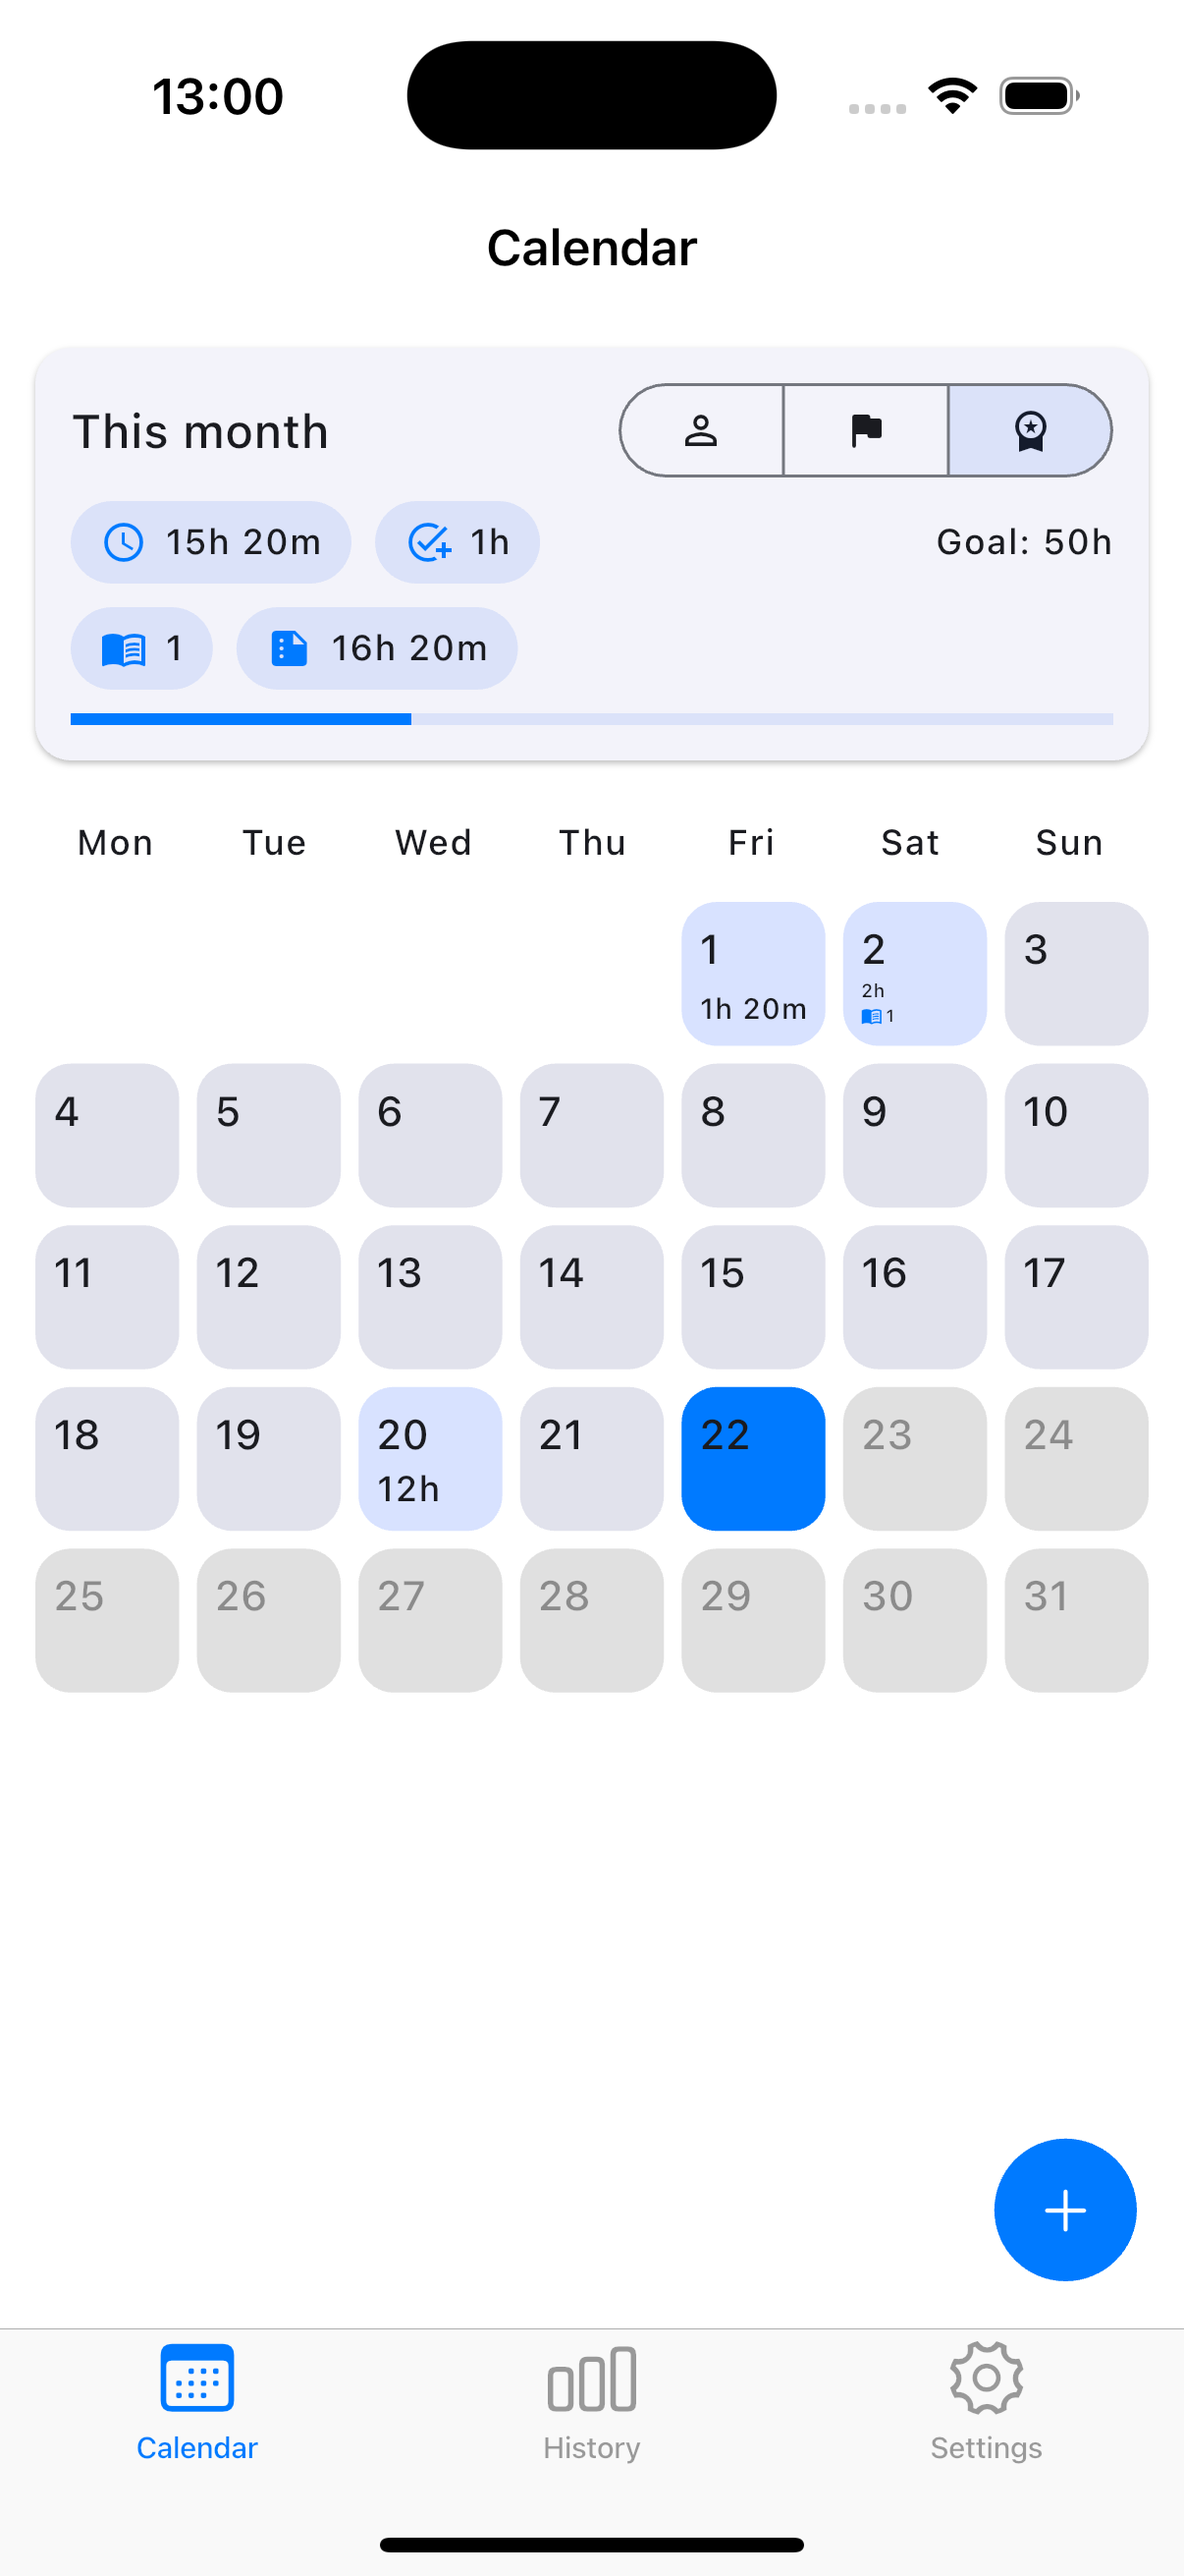
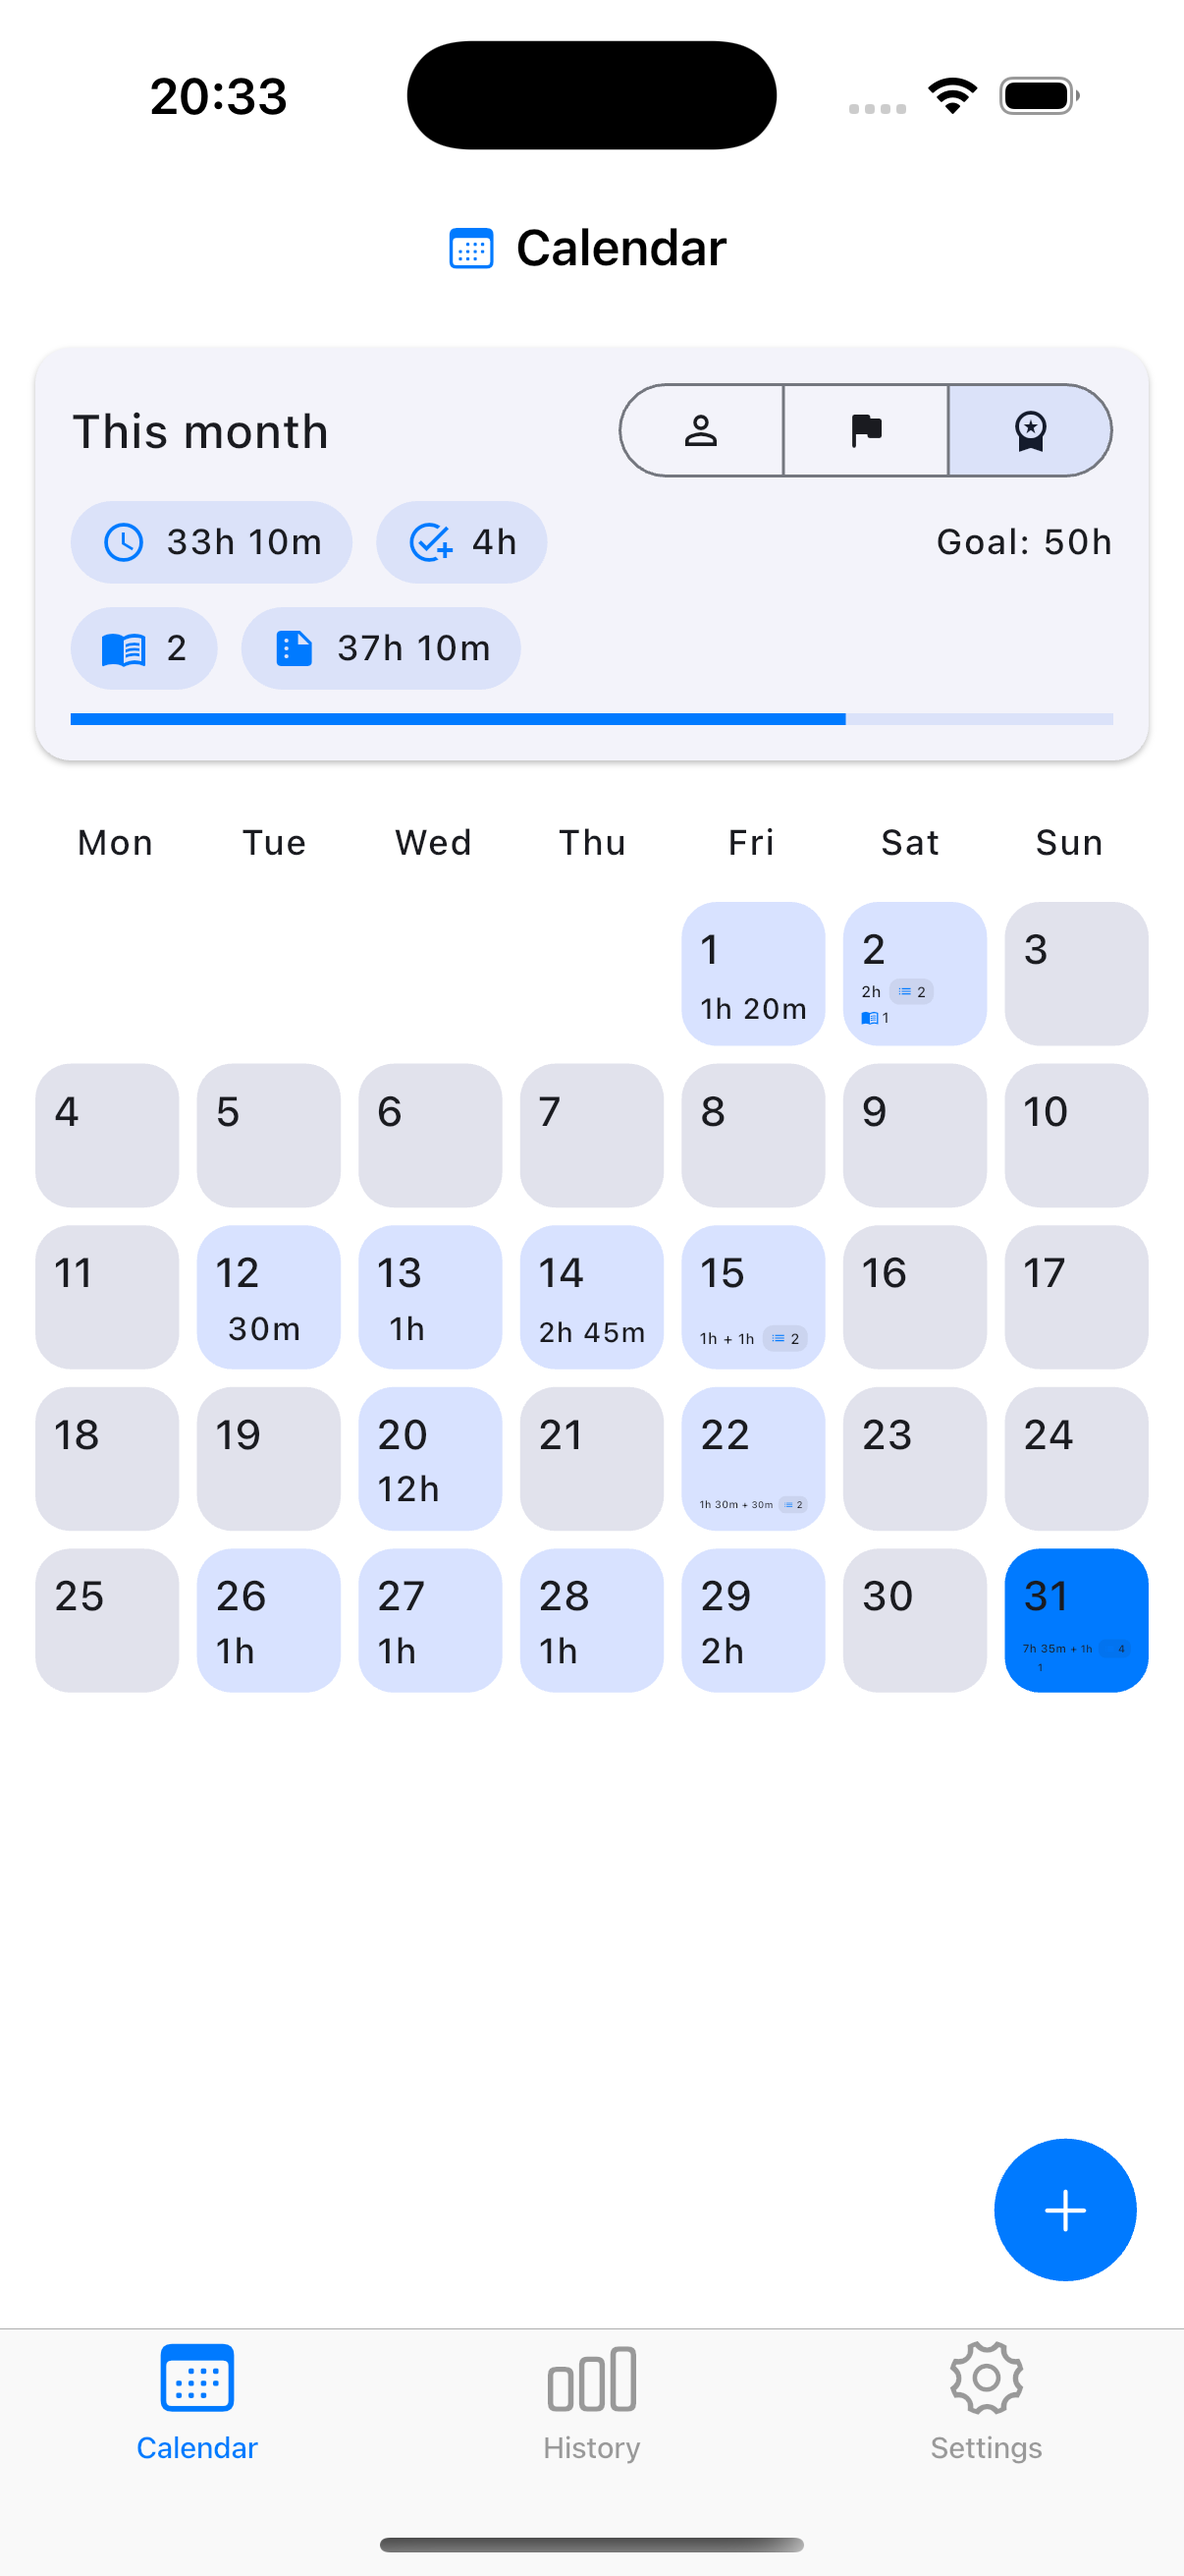
feat: update privacy.html

diff --git a/privacy.html b/privacy.html
@@ -1,0 +1,29 @@
+<!doctype html>
+<html lang="en">
+<head>
+    <meta charset="utf-8">
+    <title>Privacy Policy — Ministry Journal</title>
+</head>
+<body>
+<h1>Privacy Policy</h1>
+<p>Last updated: August 31, 2025</p>
+
+<p>Ministry Journal is a minimal diary app designed to help you keep track of your ministry time and notes.</p>
+
+<h2>Data collection</h2>
+<p>The app does not collect, transmit, or store any personal information on external servers.
+    All data (entries, notes, statistics) remain only on your device.</p>
+
+<h2>Permissions</h2>
+<ul>
+    <li><strong>Notifications:</strong> Used only for daily reminders. You can disable them at any time in system settings.</li>
+</ul>
+
+<h2>Third-party services</h2>
+<p>The app does not use analytics, ads, or tracking tools.</p>
+
+<h2>Contact</h2>
+<p>If you have any questions about this Privacy Policy, contact us at:
+    <a href="mailto:hello@example.com">hello@example.com</a></p>
+</body>
+</html>

diff --git a/index.html b/index.html
@@ -187,7 +187,10 @@
 
     <footer>
         <div>© <span id="y"></span> Ministry Journal</div>
-        <div>Contact: <a href="mailto:hello@example.com">hello@example.com</a></div>
+        <div>
+            Contact: <a href="mailto:hello@example.com">hello@example.com</a> ·
+            <a href="privacy.html">Privacy Policy</a>
+        </div>
     </footer>
 </div>
 
